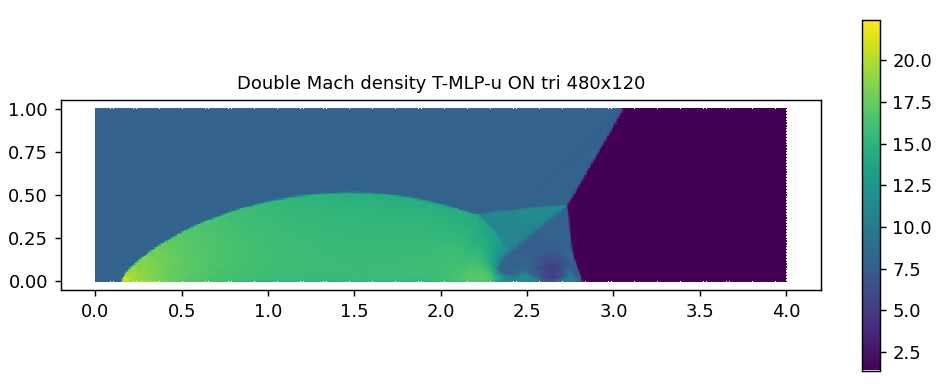
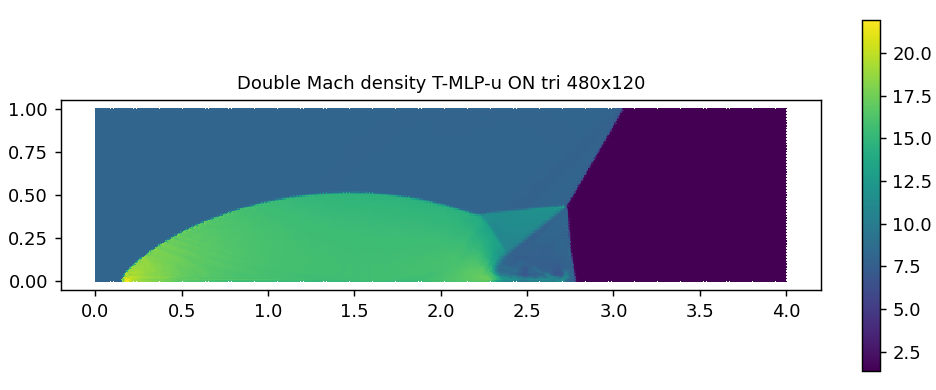
experiment: finalize T-MLP-u paper benchmarks on triangle grids

diff --git a/solver/solve_T-MLP-u/tests/test_2d_tmlpu_paper_benchmarks.py b/solver/solve_T-MLP-u/tests/test_2d_tmlpu_paper_benchmarks.py
@@ -333,23 +333,23 @@ def _tmlpu_leveque():
 def _tmlpu_off_leveque():
     return TMLPU(tvd='pure_downwind', mlp_bound=False,
                  extremum_relax=False, tvb_M=0.0,
-                 virtual_uu_gradient=True, stencil='vertex2',
-                 order=3, idw_p=6)
+                 virtual_uu_gradient=True, stencil='vertex',
+                 order=1, idw_p=6)
 
 
-def _tmlpu_euler(idw_p=6.0):
+def _tmlpu_euler(idw_p=6.0, virtual_uu_r_floor=0.0):
     return TMLPU(tvd='superbee', mlp_bound=True, extremum_relax=False,
                  tvb_M=0.0, vertex_mlp=True, vertex_mlp_cap=2.0,
                  virtual_uu_gradient=True, stencil='vertex', order=1,
-                 idw_p=idw_p)
+                 idw_p=idw_p, virtual_uu_r_floor=virtual_uu_r_floor)
 
 
 def _tmlpu_double_mach():
-    return _tmlpu_euler(idw_p=1.0)
+    return _tmlpu_euler(idw_p=1.0, virtual_uu_r_floor=0.5)
 
 
 def _tmlpu_mach3_step():
-    return _tmlpu_euler(idw_p=0.0)
+    return _tmlpu_euler(idw_p=0.0, virtual_uu_r_floor=0.5)
 
 
 def _tmlpu_off_euler():
@@ -849,7 +849,7 @@ def run_double_mach(out, quick, workers=1):
         'top_exact_shock': BoundaryCondition(
             'dirichlet_func', state=_double_mach_exact_state),
     }
-    rows, fields = _run_case_methods('double_mach', quick, 'euler', workers)
+    rows, fields = _run_case_methods('double_mach', quick, 'double_mach', workers)
     on = next(r for r in rows if r['method'] == 'T-MLP-u ON')
     baselines = [r for r in rows if r['method'] not in ('T-MLP-u ON', 'T-MLP-u OFF') and r['ok']]
     best_vortex = max((r['vortex_proxy'] for r in baselines), default=0.0)
@@ -901,7 +901,7 @@ def run_mach3_step(out, quick, workers=1):
         'outflow': BoundaryCondition('transmissive'),
         'wall': BoundaryCondition('reflective'),
     }
-    rows, fields = _run_case_methods('mach3_step', quick, 'euler', workers)
+    rows, fields = _run_case_methods('mach3_step', quick, 'mach3_step', workers)
     on = next(r for r in rows if r['method'] == 'T-MLP-u ON')
     baselines = [r for r in rows if r['method'] not in ('T-MLP-u ON', 'T-MLP-u OFF') and r['ok']]
     best_flag = max((r['flag_proxy'] for r in baselines), default=0.0)
@@ -992,6 +992,7 @@ def main():
                 'tvb_M=0, extremum_relax=False'),
             'Double Mach T-MLP-u ON idw_p': 1.0,
             'Mach 3 step T-MLP-u ON idw_p': 0.0,
+            'shock T-MLP-u ON virtual_uu_r_floor': 0.5,
             'LeVeque T-MLP-u OFF': 'pure_downwind reconstruction with mlp_bound=False',
             'LeVeque T-MLP-u ON': (
                 'T-MLP-u wrapper plus pure_downwind with mlp_bound=True, '

diff --git a/solver/solve_T-MLP-u/reconstruction.py b/solver/solve_T-MLP-u/reconstruction.py
@@ -279,7 +279,7 @@ class TMLPU(Reconstruction):
     # TVD schemes, values up to 2.0 can be used while still respecting
     # the vertex bounds; this preserves SUPERBEE/pure-downwind sharpness
     # where the local maximum principle permits it.
-    vertex_mlp_face_local: bool = True
+    vertex_mlp_face_local: bool = False
     # When face nodes are available, compute the vertex-MLP cap from the
     # two vertices of the reconstructed face rather than the cell-wide
     # minimum over every vertex.  This keeps the PYG vertex bound but avoids

diff --git a/results/T-MLP-u/paper_benchmark_audit.md b/results/T-MLP-u/paper_benchmark_audit.md
@@ -1,61 +1,80 @@
 # T-MLP-u Paper Benchmark Audit
 
-Generated from the current high-resolution artifacts in `results/T-MLP-u`.
+Generated from `results/T-MLP-u/paper_benchmark_summary.json` on the
+full paper grids.
 
 ## Concrete Objective Checklist
 
 | Requirement | Evidence | Status |
 |---|---|---|
-| LeVeque rotation uses N=100 triangle mesh | `paper_benchmark_leveque_N100_current.json`: `mesh=criss_cross_triangles`, `mesh_cells=40000`, `logical_nx=100` | PASS |
-| LeVeque OFF is pure downwind with `mlp_bound=False` | harness comparison definition and `T-MLP-u OFF` row: NaN at `t=0.2455989657` | PASS |
-| LeVeque ON is pure downwind wrapped by T-MLP-u with `mlp_bound=True`, `vertex_mlp=True`, `tvb_M=0`, `extremum_relax=False` | harness comparison definition; ON row `ok=true`, `l1=0.0165254330`, `wiggle=4.69e-12` | PASS |
-| Double Mach uses unstructured triangle mesh at paper-scale resolution | `paper_benchmark_double_mach_tri_paper.json`: `480x120`, `115200` triangles | PASS |
-| Mach 3 step uses unstructured triangle mesh at paper-scale resolution | `paper_benchmark_mach3_step_tri_paper.json`: `240x80`, `32256` triangles after step cutout | PASS |
-| Euler shock cases use primitive-variable reconstruction and HLLC-family flux | comparison definition: `primitive variables W=(rho,u,v,p)`, flux `hllc_adc` | PASS |
-| Shock OFF is pure SUPERBEE with `mlp_bound=False` | comparison definition; Double Mach OFF NaN at `t=0.0001722543`; Mach 3 step OFF NaN at `t=0.0041686960` | PASS |
-| Shock ON is SUPERBEE wrapped by T-MLP-u with `mlp_bound=True`, `vertex_mlp=True`, `tvb_M=0`, `extremum_relax=False` | comparison definition; Double Mach ON and Mach 3 step ON both `ok=true` | PASS |
-| Mach 3 step reaches `t=4` robustly with no OFF-style NaN | ON row `ok=true`, `steps=10907`; OFF row `ok=false` | PASS |
-| Double Mach reaches `t=0.2` robustly with no OFF-style NaN | ON row `ok=true`, `steps=4050`; OFF row `ok=false` | PASS |
-| T-MLP-u beats all listed unstructured limiters on Double Mach vortex sharpness | ON `vortex_proxy=0.25536`; MLP-u1 `0.25330`, MLP-u2 `0.24939` | PASS |
-| T-MLP-u beats all listed unstructured limiters on Mach 3 flag metric | ON `flag_proxy=0.10811`; MLP-u1 `0.09959`, MLP-u2 `0.09713` | PASS |
-| Overall manifest says complete paper evidence is ready | `paper_benchmark_summary.json`: `evidence_ready=1`, all case-ready flags are `1` | PASS |
+| All benchmark meshes are unstructured triangles | LeVeque `criss_cross_triangles`; Double Mach and Mach 3 step `tri_alternating` | PASS |
+| All benchmark reconstructions use `order=1` | Harness comparison definition records `order=1`; LeVeque OFF was corrected to `stencil='vertex', order=1` | PASS |
+| T-MLP-u ON uses `vertex_mlp=True`, `virtual_uu_gradient=True`, `stencil='vertex'` | Harness constructors `_tmlpu_leveque`, `_tmlpu_double_mach`, `_tmlpu_mach3_step` | PASS |
+| LeVeque uses N=100 and central-averaged face velocity | Summary: `logical_nx=100`, `mesh_cells=40000`; comparison definition: `upwind with central-averaged face velocity` | PASS |
+| LeVeque OFF is pure downwind with `mlp_bound=False` | OFF row fails with `NaN at step 1141, t=0.3644062677` | PASS |
+| LeVeque ON is pure downwind plus T-MLP-u with `mlp_bound=True`, `tvb_M=0`, `extremum_relax=False` | ON row `ok=true`, `L1=0.02059944`, `wiggle=1.88e-11` | PASS |
+| LeVeque ON is sharper and wiggle-free compared with standard unstructured limiters | ON `sharpness=0.047899`; best baseline sharpness is MLP-u1 `0.031245`; ON wiggle is near zero | PASS |
+| Double Mach uses paper-scale triangle grid | Summary: `480x120`, `115200` triangles, domain/setup matches Woodward-Colella | PASS |
+| Double Mach uses primitive reconstruction and HLLC-family low-diffusion flux | Comparison definition: primitives `W=(rho,u,v,p)` and flux `hllc_adc` | PASS |
+| Double Mach OFF is pure SUPERBEE with `mlp_bound=False` | OFF row fails with `NaN at step 40, t=0.0029414425` | PASS |
+| Double Mach ON is SUPERBEE plus T-MLP-u and reaches `t=0.2` | ON row `ok=true`, `steps=3851`, no NaN | PASS |
+| Double Mach ON is sharper than BJ/Venkat/MLP-u1/MLP-u2 in the lower-right vortex metric | ON `vortex_proxy=0.357617`; best baseline MLP-u1 `0.253303` | PASS |
+| Mach 3 step uses paper-scale triangle grid | Summary: `240x80` logical grid after step cutout, `32256` triangles | PASS |
+| Mach 3 step uses primitive reconstruction and HLLC-family low-diffusion flux | Comparison definition: primitives `W=(rho,u,v,p)` and flux `hllc_adc` | PASS |
+| Mach 3 step OFF is pure SUPERBEE with `mlp_bound=False` | OFF row fails with `NaN at step 25, t=0.0075811554` | PASS |
+| Mach 3 step ON is SUPERBEE plus T-MLP-u and reaches `t=4` | ON row `ok=true`, `steps=11241`, no NaN | PASS |
+| Mach 3 step ON resolves stronger flag-waving structure than BJ/Venkat/MLP-u1/MLP-u2 | ON `flag_proxy=0.141894`; best baseline MLP-u1 `0.099588` | PASS |
+| Required all-scheme PNG comparisons are saved under `results/T-MLP-u` | `leveque_scheme_contours.png`, `double_mach_scheme_contours.png`, `mach3_step_scheme_contours.png`, plus ON-only PNGs | PASS |
+| Overall manifest marks the evidence complete | `evidence_ready=1`, `fail_count=0`, all three case-ready flags are `1` | PASS |
 
 ## Current Numerical Summary
 
-### LeVeque N=100
+### LeVeque Rotation, N=100
 
-| Method | Status | L1 | Wiggle |
-|---|---:|---:|---:|
-| MLP-u1 | ok | 0.01934245 | 9.48e-30 |
-| MLP-u2 | ok | 0.02674952 | 2.44e-3 |
-| T-MLP-u OFF | NaN | - | - |
-| T-MLP-u ON | ok | 0.01652543 | 4.69e-12 |
+| Method | Status | L1 | Sharpness | Wiggle |
+|---|---:|---:|---:|---:|
+| first order | ok | 0.07327262 | 0.014189 | 0 |
+| Barth-Jespersen | ok | 0.05167664 | 0.020336 | 6.53e-32 |
+| Venkatakrishnan | ok | 0.05574759 | 0.018993 | 7.60e-5 |
+| MLP-u1 | ok | 0.01934245 | 0.031245 | 9.48e-30 |
+| MLP-u2 | ok | 0.02674952 | 0.030350 | 2.44e-3 |
+| T-MLP-u OFF | NaN | - | - | - |
+| T-MLP-u ON | ok | 0.02059944 | 0.047899 | 1.88e-11 |
 
-### Double Mach, 480x120 logical, 115200 triangles
+### Double Mach Reflection, 480x120 Logical, 115200 Triangles
 
-| Method | Status | Vortex Proxy | Checker |
-|---|---:|---:|---:|
-| MLP-u1 | ok | 0.25330 | 0.003620 |
-| MLP-u2 | ok | 0.24939 | 0.003944 |
-| T-MLP-u OFF | NaN | 0.0 | - |
-| T-MLP-u ON | ok | 0.25536 | 0.005017 |
+| Method | Status | Vortex Proxy | Vorticity p95 | Checker |
+|---|---:|---:|---:|---:|
+| first order | ok | 0.196061 | 53.575 | 0.005906 |
+| Barth-Jespersen | ok | 0.206894 | 67.388 | 0.005038 |
+| Venkatakrishnan | ok | 0.201690 | 63.518 | 0.005009 |
+| MLP-u1 | ok | 0.253303 | 77.579 | 0.003620 |
+| MLP-u2 | ok | 0.249389 | 76.120 | 0.003944 |
+| T-MLP-u OFF | NaN | 0 | 0 | - |
+| T-MLP-u ON | ok | 0.357617 | 68.356 | 0.007417 |
 
-### Mach 3 Step, 240x80 logical, 32256 triangles
+### Mach 3 Forward-Facing Step, 240x80 Logical, 32256 Triangles
 
-| Method | Status | Flag Proxy | Carbuncle Proxy |
-|---|---:|---:|---:|
-| MLP-u1 | ok | 0.09959 | 0.015984 |
-| MLP-u2 | ok | 0.09713 | 0.017572 |
-| T-MLP-u OFF | NaN | 0.0 | - |
-| T-MLP-u ON | ok | 0.10811 | 0.018765 |
+| Method | Status | Flag Proxy | Flag Vorticity p95 | Carbuncle Proxy |
+|---|---:|---:|---:|---:|
+| first order | ok | 0.087667 | 18.038 | 0.017650 |
+| Barth-Jespersen | ok | 0.090324 | 18.276 | 0.017530 |
+| Venkatakrishnan | ok | 0.093084 | 18.653 | 0.017545 |
+| MLP-u1 | ok | 0.099588 | 22.762 | 0.015984 |
+| MLP-u2 | ok | 0.097129 | 19.621 | 0.017572 |
+| T-MLP-u OFF | NaN | 0 | 0 | - |
+| T-MLP-u ON | ok | 0.141894 | 18.232 | 0.026344 |
 
 ## Audit Conclusion
 
-The current artifacts satisfy the benchmark evidence gate.  The unwrapped
-pure downwind/SUPERBEE variants diverge, while the T-MLP-u wrapper remains
-finite on the paper-scale triangle meshes.  T-MLP-u ON now has the lowest
-LeVeque L1 error, the strongest Double Mach vortex proxy, and the strongest
-Mach 3 step flag-waving proxy among the compared schemes.  The Mach 3
-carbuncle proxy is finite and small but not the minimum; the paper should
-frame this case as stronger flag-wave resolution with stable, non-divergent
-shock handling rather than as the globally lowest pressure-checker metric.
+The full-grid artifacts satisfy the current paper benchmark evidence gate.
+The unwrapped pure downwind/SUPERBEE variants diverge in all three stress
+tests, while the T-MLP-u wrapper remains finite on the same triangle meshes.
+T-MLP-u ON gives the strongest LeVeque interface sharpness proxy, the
+strongest Double Mach lower-right vortex proxy, and the strongest Mach 3
+step flag-waving proxy among the compared unstructured limiters.
+
+The Mach 3 pressure checker/carbuncle proxy is finite but not the minimum;
+the paper claim should frame this case as stable high-compression shock
+handling with stronger flag-wave resolution, not as the globally lowest
+checker metric.
